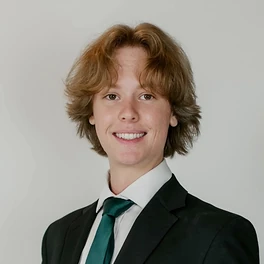
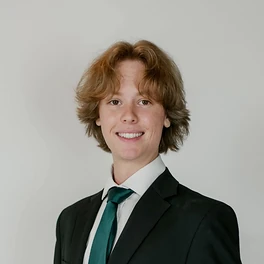
Card every project, drop RRT image, pill hover, wider headshot crop
- Remove the RRT path thumbnail and its row-thumbnail styles
- Every project is now a card: AeroAtlas full width, the other two side by
  side on desktop with their pills aligned along the bottom
- Pills get a neutral hover state
- Re-crop the hero headshot a little wider

diff --git a/style.css b/style.css
@@ -179,7 +179,11 @@ h3 { font-size: var(--fs-md); font-weight: 600; letter-spacing: -0.01em; color: 
   font-size: 0.8125rem; font-weight: 500; line-height: 1;
   padding: 7px 10px; border-radius: 999px;
   color: var(--text-color-1); background: var(--surface-2); border: 1px solid var(--line);
+  cursor: default;
+  transition: background-color .15s ease, border-color .15s ease, color .15s ease;
 }
+/* Neutral hover (chips are labels, not links, so they stay out of the purple action color). */
+.chips li:hover { background: #34343A; border-color: #55555E; color: #fff; }
 
 /* ---------- Timeline (a real sequence, so it gets a line and markers) ---------- */
 .timeline { position: relative; }
@@ -206,7 +210,7 @@ h3 { font-size: var(--fs-md); font-weight: 600; letter-spacing: -0.01em; color: 
 }
 
 /* ---------- Research ---------- */
-/* Featured work (the paper and the flagship project) shares one card surface. */
+/* The paper and every project share one card surface. */
 .feature {
   background: var(--surface); border: 1px solid var(--line); border-radius: var(--radius);
   padding: 28px;
@@ -221,12 +225,11 @@ h3 { font-size: var(--fs-md); font-weight: 600; letter-spacing: -0.01em; color: 
 .paper-links { display: flex; flex-wrap: wrap; gap: 12px; margin-top: 24px; }
 
 /* ---------- Projects ---------- */
-.project { padding: 28px 0; border-bottom: 1px solid var(--line); }
-.project:first-child { padding-top: 0; }
-.project.feature { padding: 28px; border: 1px solid var(--line); margin-bottom: 4px; }
-.project.has-thumb { display: grid; grid-template-columns: minmax(0, 1fr) 168px; gap: 32px; align-items: start; }
-.project-main > p { margin: 10px 0 16px; max-width: 46em; color: var(--text-muted); }
-.project-thumb { display: block; border-radius: var(--radius-small); margin-top: 4px; }
+/* AeroAtlas spans the full width; the smaller projects sit side by side. */
+.projects { display: grid; grid-template-columns: repeat(2, minmax(0, 1fr)); gap: 16px; }
+.project { display: flex; flex-direction: column; }
+.project-wide { grid-column: 1 / -1; }
+.project > .chips { margin-top: auto; }   /* chips line up along the bottom of side-by-side cards */
 .project-head { display: flex; flex-wrap: wrap; align-items: baseline; justify-content: space-between; gap: 6px 24px; }
 .project-award { color: var(--text-highlights); font-size: var(--fs-sm); font-weight: 500; }
 .project-link { font-size: var(--fs-sm); font-weight: 500; }
@@ -237,7 +240,7 @@ h3 { font-size: var(--fs-md); font-weight: 600; letter-spacing: -0.01em; color: 
 }
 .project-gallery a { display: block; border-radius: var(--radius-small); }
 
-/* Project images: one frame for gallery shots and row thumbnails. */
+/* Project images share one frame. */
 .shot {
   width: 100%; height: auto; aspect-ratio: 16 / 10; object-fit: cover; object-position: 50% 0;
   border-radius: var(--radius-small); border: 1px solid var(--line); background: var(--surface);
@@ -245,7 +248,6 @@ h3 { font-size: var(--fs-md); font-weight: 600; letter-spacing: -0.01em; color: 
   transition: border-color .15s ease, filter .15s ease;
 }
 .shot.photo { object-position: 50% 70%; }
-.project-thumb .shot { aspect-ratio: 1 / 1; }   /* square plot: keep start and goal in view */
 a:hover > .shot { border-color: var(--line-strong); filter: none; }
 .project-gallery p { margin-top: 8px; color: var(--text-faint); }
 .more-link { margin-top: 24px; font-size: var(--fs-sm); font-weight: 500; }
@@ -284,7 +286,7 @@ a:hover > .shot { border-color: var(--line-strong); filter: none; }
   .hero { grid-template-columns: 1fr; gap: 24px; }
   .hero-figure { max-width: 440px; width: 100%; margin-inline: auto; }
   .paper { grid-template-columns: 1fr; gap: 24px; }
-  .feature, .project.feature { padding: 20px; }
+  .feature { padding: 20px; }
   .paper-figure { max-width: 360px; }
 }
 
@@ -305,8 +307,7 @@ a:hover > .shot { border-color: var(--line-strong); filter: none; }
   .tl-when { padding-left: 28px; border-left: 1px solid var(--line-strong); padding-bottom: 4px; }
   .tl-item:last-child .tl-when { border-left-color: var(--line-strong); }
 
-  .project.has-thumb { grid-template-columns: 1fr; gap: 16px; }
-  .project-thumb { margin-top: 0; max-width: 200px; }
+  .projects { grid-template-columns: 1fr; gap: 12px; }
   .project-gallery { grid-template-columns: 1fr 1fr; gap: 12px; }
   .project-gallery li:first-child { grid-column: 1 / -1; }
 

diff --git a/index.html b/index.html
@@ -184,7 +184,7 @@
       <h2 id="projects-title">Projects</h2>
 
       <ul class="projects">
-        <li class="project feature">
+        <li class="project feature project-wide">
           <div class="project-head">
             <h3>AeroAtlas</h3>
             <p class="project-award">Audience Choice Award, UNF School of Computing Symposium</p>
@@ -217,7 +217,7 @@
           <ul class="chips" aria-label="Technologies"><li>LLMs</li><li>REST APIs</li><li>Web app</li></ul>
         </li>
 
-        <li class="project">
+        <li class="project feature">
           <div class="project-head">
             <h3>Object detection on a Raspberry Pi</h3>
             <a class="project-link" href="https://github.com/Teseife/Custom-YOLOv5-RaspberryPi" target="_blank" rel="noopener">View code</a>
@@ -229,21 +229,16 @@
           <ul class="chips" aria-label="Technologies"><li>Python</li><li>YOLOv5</li><li>OpenCV</li></ul>
         </li>
 
-        <li class="project has-thumb">
-          <div class="project-main">
-            <div class="project-head">
-              <h3>Rapidly-exploring random trees</h3>
-              <a class="project-link" href="https://github.com/yeahian/Rapidly-Exploring-Random-Trees" target="_blank" rel="noopener">View code</a>
-            </div>
-            <p>
-              A path-planning implementation that grows random trees through dense obstacle courses to
-              find a route from start to goal efficiently.
-            </p>
-            <ul class="chips" aria-label="Technologies"><li>Python</li><li>Path planning</li></ul>
+        <li class="project feature">
+          <div class="project-head">
+            <h3>Rapidly-exploring random trees</h3>
+            <a class="project-link" href="https://github.com/yeahian/Rapidly-Exploring-Random-Trees" target="_blank" rel="noopener">View code</a>
           </div>
-          <a class="project-thumb" href="images/rrt-path.webp" target="_blank" rel="noopener">
-            <img class="shot" src="images/rrt-path.webp" alt="RRT search tree winding through a maze of wall obstacles, with the final path from start to goal highlighted" width="564" height="564" loading="lazy">
-          </a>
+          <p>
+            A path-planning implementation that grows random trees through dense obstacle courses to
+            find a route from start to goal efficiently.
+          </p>
+          <ul class="chips" aria-label="Technologies"><li>Python</li><li>Path planning</li></ul>
         </li>
       </ul>
 
